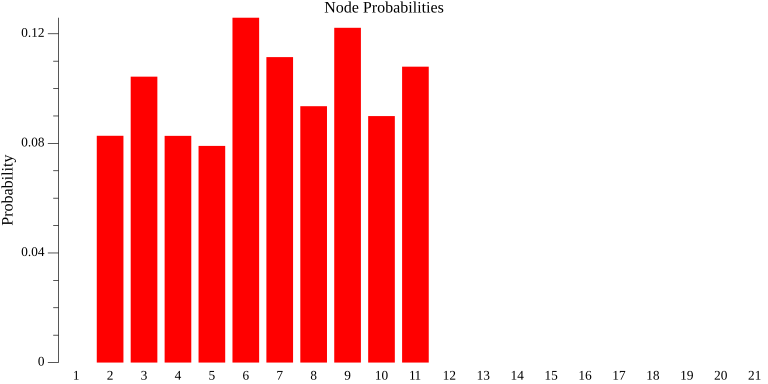
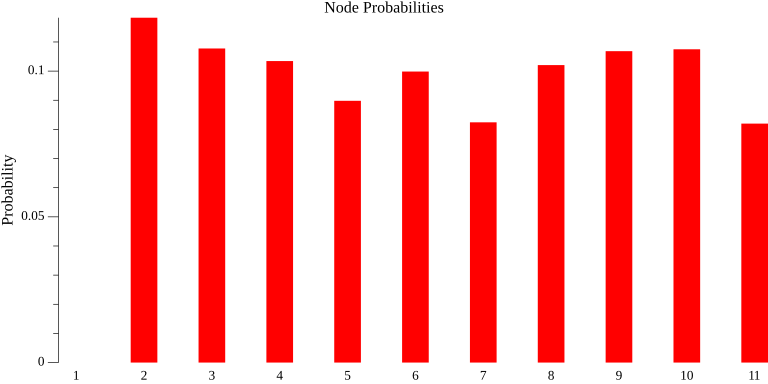
Updated command-line flags and plot view with bucket size.
This commit updates the command-line flags in the `cmd/run/main.go` file to include the bucket size option. The `plotView` function in the `cmd/ui/main.go` file has been modified to accept the bucket size as a parameter and use it to compute the cumulative distribution function (CDF). The CDF is then used to create plots of the received R and received R-1 values. Additionally, the `computeCDF` function has been updated to use the bucket size to group data points.

diff --git a/static/index.html b/static/index.html
@@ -52,6 +52,7 @@
                 StdDev: getSliderValue("StdDev"),
                 Scenario: getSliderValue("Scenario"),
                 NumRuns: getSliderValue("NumRuns"),
+                BucketSize: getSliderValue("BucketSize"),
             });
 
             const response = await fetch(`http://localhost:8200/query?${params.toString()}`);
@@ -89,6 +90,15 @@
                 document.getElementById(`${key}-value`).textContent = values[0];
 
             }
+
+            // Set the slider min, max, and step based on values
+            const slider = document.getElementById("BucketSize");
+            slider.min = 1;
+            slider.max = 10
+            slider.value = 5; // Set to the first value initially
+
+            // Display the initial value
+            document.getElementById(`BucketSize-value`).textContent = "5";
         }
 
         function getSliderValue(sliderId) {
@@ -209,6 +219,18 @@
                     </td>
                     <td class="param-value">
                         <span id="NumRuns-value" class="slider-value"></span>
+                    </td>
+                </tr>
+                <tr>
+                    <td class="param-label">
+                        <label for="BucketSize">BucketSize:</label>
+                    </td>
+                    <td>
+                        <input type="range" id="BucketSize" list="BucketSize-values" />
+                        <datalist id="BucketSize-values"></datalist>
+                    </td>
+                    <td class="param-value">
+                        <span id="BucketSize-value" class="slider-value"></span>
                     </td>
                 </tr>
             </table>

diff --git a/cmd/run/main.go b/cmd/run/main.go
@@ -36,14 +36,14 @@ type Data struct {
 func main() {
 	// Define command-line flags
 	logLevel := flag.String("log-level", "debug", "Log level")
-	N := *flag.Int("N", 10, "Number of nodes")
-	R := *flag.Int("R", 10, "Number of clients")
-	D := *flag.Int("D", 30, "Number of layers")
-	L := *flag.Int("L", 5, "Number of layers")
-	X := *flag.Float64("X", 1.0, "Fraction of corrupted nodes")
-	StdDev := *flag.Float64("StdDev", 1.0, "Standard deviation")
-	Scenario := *flag.Int("Scenario", 0, "Scenario")
-	numRuns := *flag.Int("numRuns", 3, "Number of runs")
+	N := flag.Int("N", 10, "Number of nodes")
+	R := flag.Int("R", 10, "Number of clients")
+	D := flag.Int("D", 30, "Number of layers")
+	L := flag.Int("L", 5, "Number of layers")
+	X := flag.Float64("X", 1.0, "Fraction of corrupted nodes")
+	StdDev := flag.Float64("StdDev", 1.0, "Standard deviation")
+	Scenario := flag.Int("Scenario", 0, "Scenario")
+	numRuns := flag.Int("numRuns", 3, "Number of runs")
 	flag.Usage = flag.PrintDefaults
 	flag.Parse()
 
@@ -56,16 +56,15 @@ func main() {
 	}
 
 	p := interfaces.Params{
-		N:        N,
-		R:        R,
-		L:        L,
-		D:        D,
-		X:        X,
-		StdDev:   StdDev,
-		Scenario: Scenario,
+		N:        *N,
+		R:        *R,
+		L:        *L,
+		D:        *D,
+		X:        *X,
+		StdDev:   *StdDev,
+		Scenario: *Scenario,
 	}
-	runs := make([]View, numRuns)
-	//multi := make([]MultiView, numRuns)
+	runs := make([]View, *numRuns)
 
 	cn := utils.RandomSubset(utils.NewIntArray(p.R+1, p.R+p.N+1), int(p.X*float64(p.N)))
 	isNodeCorrupted := utils.Map(utils.NewIntArray(p.R+1, p.R+p.N+1), func(id int) bool {
@@ -95,7 +94,7 @@ func main() {
 	}
 	//slog.Info("Starting runs", "N", N, "R", R, "D", D, "L", L, "X", X, "StdDev", StdDev, "Scenario", Scenario)
 
-	for i := 0; i < numRuns; i++ {
+	for i := 0; i < *numRuns; i++ {
 		if err := newSystem.StartRun(); err != nil {
 			slog.Error("failed to start run", err)
 			os.Exit(1)
@@ -106,7 +105,7 @@ func main() {
 		receivedR_1 := newSystem.GetNumOnionsReceived(p.R - 1)
 
 		runs[i] = View{
-			Probabilities: probabilities,
+			Probabilities: probabilities[:p.R+1],
 			ReceivedR:     receivedR,
 			ReceivedR_1:   receivedR_1,
 		}

diff --git a/cmd/ui/main.go b/cmd/ui/main.go
@@ -138,6 +138,11 @@ func queryHandler(w http.ResponseWriter, r *http.Request) {
 		Scenario: getIntQueryParam(r, "Scenario"),
 	}
 	numRuns := getIntQueryParam(r, "NumRuns")
+	bucketSize := getIntQueryParam(r, "BucketSize")
+
+	if bucketSize <= 0 {
+		bucketSize = 2
+	}
 
 	v := utils.Find(allData.Data, func(data Data) bool {
 		return data.Params == p
@@ -145,10 +150,9 @@ func queryHandler(w http.ResponseWriter, r *http.Request) {
 
 	if v == nil {
 		v = &(allData.Data[0])
-		return
 	}
 
-	plotView(v.Views[:numRuns])
+	plotView(v.Views[:numRuns], bucketSize)
 
 	if err := json.NewEncoder(w).Encode([]string{"goood"}); err != nil {
 		slog.Error("failed to encode response", err)
@@ -179,7 +183,7 @@ func handleExpectedValues(w http.ResponseWriter, r *http.Request) {
 	}
 }
 
-func plotView(view []View) {
+func plotView(view []View, bucketSize int) {
 	if len(view) == 0 {
 		return
 	}
@@ -194,13 +198,13 @@ func plotView(view []View) {
 
 	createPlot("static/plots/Probabilities.png", probabilities)
 
-	cdfN, shiftN := computeCDF(utils.Map(view, getReceivedR))
-	cdfN_1, shiftN_1 := computeCDF(utils.Map(view, getReceivedR_1))
+	cdfN, shiftN := computeCDF(utils.Map(view, getReceivedR), bucketSize)
+	cdfN_1, shiftN_1 := computeCDF(utils.Map(view, getReceivedR_1), bucketSize)
 	createCDFPlot("static/plots/ReceivedR.png", cdfN, shiftN, 2, "Client R", "Number of onions received", "CDF")
 	createCDFPlot("static/plots/ReceivedR_1.png", cdfN_1, shiftN_1, 2, "Client R-1", "Number of onions received", "CDF")
 }
 
-func computeCDF(data []int) ([]float64, int) {
+func computeCDF(data []int, bucketSize int) ([]float64, int) {
 	// Compute frequencies
 	//freq := make(map[float64]int)
 	xMin := utils.MinOver(data)
@@ -216,9 +220,9 @@ func computeCDF(data []int) ([]float64, int) {
 
 	cdf := make([]float64, 0)
 
-	for i := 0; i < len(freq); i += 2 {
+	for i := 0; i < len(freq); i += bucketSize {
 		count := 0
-		for j := i; j < utils.Min(len(freq), i+2); j++ {
+		for j := i; j < utils.Min(len(freq), i+bucketSize); j++ {
 			count += freq[j]
 		}
 		cdf = append(cdf, float64(count)/float64(cumulativeSum))

diff --git a/cmd/main.go b/cmd/main.go
@@ -58,8 +58,8 @@ func main() {
 		return
 	}
 
-	from := 0
-	to := 10000
+	//from := 0
+	//to := 10000
 
 	index := 0
 
@@ -72,13 +72,13 @@ func main() {
 							for _, StdDev := range expectedValues.StdDev {
 								for _, Scenario := range expectedValues.Scenario {
 
-									if index > to {
-										return
-									}
-									if index < from {
-										index++
-										continue
-									}
+									//if index > to {
+									//	return
+									//}
+									//if index < from {
+									//	index++
+									//	continue
+									//}
 									index++
 
 									// Convert all the numeric parameters to strings
